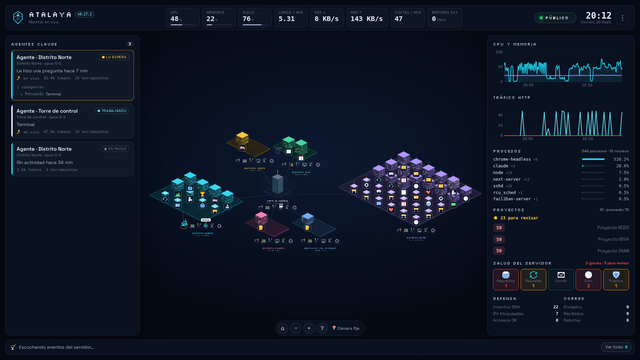
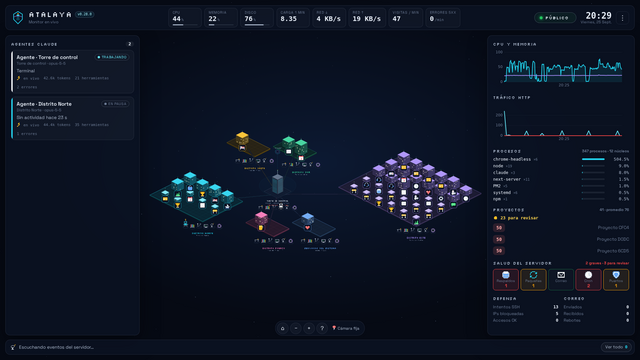
Kit al dia con Atalaya 0.29.0

diff --git a/web/js/drawer.js b/web/js/drawer.js
@@ -525,18 +525,18 @@ export class Drawer {
 
   renderSystem(d) {
     const s = d.system;
-    this.setHead('system', iconCanvas('terminal', 4), 'Torre de control', d.host ? esc(d.host) : 'El servidor completo', '');
+    this.setHead('system', iconCanvas('terminal', 4), 'Torre de control', d.host ? esc(d.host) : 'El servidor completo', d.health ? this.healthPill(d.health) : '');
     this.frame([{ title: 'CPU y memoria · 10 min', range: [0, 100], fmt: v => v + '%',
       series: [{ stroke: '#22d3ee', width: 2, fill: 'rgba(34,211,238,.1)', points: { show: false } }, { stroke: '#a78bfa', width: 2, points: { show: false } }] }]);
     this.setChart(0, d.hist, [r => r.cpu, r => r.mem]);
     const top = d.top.map(p => `<li><span class="mono grow">${esc(p.comm)} <span class="dmuted">×${p.n}</span></span><span class="mono">${p.cpu.toFixed(1)}%</span><span class="mono dmuted">${fmtBytes(p.mem)}</span></li>`).join('');
-    this.content(`<div class="dstats">
+    const health = d.health ? `<section class="dsec hsec"><h4>${px('shield')} Salud del servidor ${this.healthPill(d.health)}</h4>${this.healthHtml(d.health, true)}</section>` : '';
+    this.content(`${health}<div class="dstats">
         ${stat('CPU', s.cpu.toFixed(0) + '%')}${stat('Núcleos', s.cores)}${stat('Carga 1/5/15', s.load.map(x => x.toFixed(2)).join(' · '))}
         ${stat('Memoria', `${fmtBytes(s.mem.used)} / ${fmtBytes(s.mem.total)}`)}${stat('Swap', fmtBytes(s.swap.used))}${stat('Disco', s.disk ? `${fmtBytes(s.disk.used)} / ${fmtBytes(s.disk.total)}` : '–', s.disk?.pct > 85 ? 'warn' : '')}
         ${stat('Red ↓ / ↑', `${fmtBytes(s.net.rx)}/s · ${fmtBytes(s.net.tx)}/s`)}${stat('Encendido hace', dur(s.uptime))}${stat('Procesos', s.procs)}
         ${stat('Servicios', `${d.apps}${d.appsDown ? ` (${d.appsDown} con problemas)` : ''}`, d.appsDown ? 'bad' : '')}${stat('Agentes Claude', d.sessions)}
       </div>
-      <section class="dsec"><div class="row dmrow"><span class="grow">${px('shield')} <b>Salud del servidor</b>: respaldos, actualizaciones, cola de correo, cron y puertos.</span><button class="btn small" data-go="audit:all">Ver revisiones</button></div></section>
       ${d.connectors && d.connectors.length ? `<section class="dsec"><h4>Conectores de nube</h4><ul class="dlist">${d.connectors.map(c => `<li>
         <span class="pill ${c.ok ? 'ok' : 'bad'}">${c.ok ? 'conectado' : 'error'}</span><span class="grow"><b>${esc(c.label)}</b> · ${c.projects} proyecto${c.projects === 1 ? '' : 's'}${c.error ? `<br><span class="dmuted">${esc(c.error)}</span>` : ''}</span>
         <span class="dmuted">${c.lastOk ? 'leído hace ' + ago(Date.now() - c.lastOk) : 'sin lectura'}${c.type === 'vercel' ? (c.drainAt ? ` · visitas hace ${ago(Date.now() - c.drainAt)}` : ' · sin Drain') : ''}</span></li>`).join('')}</ul></section>` : ''}
@@ -567,28 +567,36 @@ export class Drawer {
       <section class="dsec"><h4>Últimos movimientos</h4><ul class="dlist">${rec}</ul></section>`);
   }
 
-  // salud del servidor: una seccion por revision, con sus cifras y cada hallazgo con su "como arreglarlo"
-  renderAudit(d) {
-    const cv = document.createElement('div'); cv.className = 'dswatch'; cv.innerHTML = px('shield', 'big');
-    const all = d.sections.flatMap(s => s.findings);
-    const bad = all.filter(f => f.sev === 'bad').length, warn = all.filter(f => f.sev === 'warn').length;
-    this.setHead('audit:all', cv, 'Salud del servidor', `Revisado hace ${ago(Date.now() - d.t)} · solo lectura`,
-      `<span class="pill ${bad ? 'bad' : warn ? 'warn' : 'ok'}">${bad ? bad + ' grave' + (bad === 1 ? '' : 's') : warn ? warn + ' para revisar' : 'en orden'}</span>`);
+  // salud del servidor: una seccion por revision, con sus cifras y cada hallazgo con su "como arreglarlo".
+  // compact (en la Torre de control): lo que esta en orden va en una sola linea
+  healthHtml(h, compact) {
+    if (!h) return '';
     const ST = { ok: ['ok', 'En orden'], warn: ['warn', 'Para revisar'], bad: ['bad', 'Grave'], unknown: ['off', 'Sin revisar'] };
-    const sec = s => {
-      const st = ST[s.status] || ST.unknown;
-      const finds = d.priv ? s.findings.map(f => `<div class="afind ${f.sev}"><h5>${esc(f.title)}</h5><p>${esc(f.detail || '')}</p>${f.fix ? `<p class="fix">${esc(f.fix)}</p>` : ''}
+    const sec = x => {
+      const st = ST[x.status] || ST.unknown;
+      const btn = x.canCheck ? `<button class="btn small" data-audit-updates="1" ${h.running ? 'disabled' : ''}>${h.running ? 'Revisando…' : 'Revisar actualizaciones'}</button>` : '';
+      if (compact && x.status === 'ok') return `<div class="hline">${px(x.icon)} <b>${esc(x.title)}</b> <span class="pill ok">En orden</span> <span class="dmuted">${x.items.map(i => `${esc(i.label)}: ${esc(i.value)}`).join(' · ')}</span></div>`;
+      const finds = h.priv ? x.findings.map(f => `<div class="afind ${f.sev}"><h5>${esc(f.title)}</h5><p>${esc(f.detail || '')}</p>${f.fix ? `<p class="fix">${esc(f.fix)}</p>` : ''}
           ${f.rows && f.rows.length ? `<ul>${f.rows.map(r => `<li>${r.port ? `puerto <b>${r.port}</b> ${esc(r.proc || '')}` : `<b>${esc(r.user || '')}</b> <span class="dmuted">${esc(r.schedule || '')}</span> <code>${esc(r.command || '')}</code>`}</li>`).join('')}</ul>` : ''}
           ${f.names && f.names.length ? `<p class="dmuted">${esc(f.names.slice(0, 20).join(', '))}${f.names.length > 20 ? '…' : ''}</p>` : ''}</div>`).join('')
-        : (s.findings.length ? `<p class="dmuted">${s.findings.length} hallazgo${s.findings.length === 1 ? '' : 's'}. Active el modo privado para verlos con su «cómo arreglarlo».</p>` : '');
-      const btn = s.canCheck ? `<button class="btn small" data-audit-updates="1" ${d.running ? 'disabled' : ''}>${d.running ? 'Revisando…' : 'Revisar actualizaciones'}</button>` : '';
-      return `<section class="dsec"><h4>${px(s.icon)} ${esc(s.title)} <span class="pill ${st[0]}">${st[1]}</span></h4>
-        <div class="dstats">${s.items.map(i => stat(i.label, `${esc(i.value)}${i.sub ? `<br><small class="dmuted">${esc(i.sub)}</small>` : ''}`)).join('')}</div>
-        ${finds || (s.status === 'ok' ? '<p class="dmuted">Nada para revisar.</p>' : '')}${btn ? `<div class="row dmrow">${btn}</div>` : ''}</section>`;
+        : (x.findings.length ? `<p class="dmuted">${x.findings.length} hallazgo${x.findings.length === 1 ? '' : 's'}. Active el modo privado para verlos con su «cómo arreglarlo».</p>` : '');
+      return `<section class="dsec"><h4>${px(x.icon)} ${esc(x.title)} <span class="pill ${st[0]}">${st[1]}</span></h4>
+        <div class="dstats">${x.items.map(i => stat(i.label, `${esc(i.value)}${i.sub ? `<br><small class="dmuted">${esc(i.sub)}</small>` : ''}`)).join('')}</div>
+        ${finds || (x.status === 'ok' ? '<p class="dmuted">Nada para revisar.</p>' : '')}${btn ? `<div class="row dmrow">${btn}</div>` : ''}</section>`;
     };
-    // primero lo grave
-    const order = d.sections.slice().sort((a, b) => ({ bad: 0, warn: 1, unknown: 2, ok: 3 }[a.status] - { bad: 0, warn: 1, unknown: 2, ok: 3 }[b.status]));
-    this.content(order.map(sec).join('') + '<p class="hint">Atalaya solo mira: no cambia nada. Estas revisiones se repiten cada 15 minutos; las actualizaciones, solo cuando usted lo pide.</p>');
+    const rank = { bad: 0, warn: 1, unknown: 2, ok: 3 };
+    const order = h.sections.slice().sort((a, b) => rank[a.status] - rank[b.status]);
+    return order.map(sec).join('') + '<p class="hint">Atalaya solo mira: no cambia nada. Estas revisiones se repiten cada 15 minutos; las actualizaciones, solo cuando usted lo pide.</p>';
+  }
+  healthPill(h) {
+    const all = h ? h.sections.flatMap(x => x.findings) : [];
+    const bad = all.filter(f => f.sev === 'bad').length, warn = all.filter(f => f.sev === 'warn').length;
+    return `<span class="pill ${bad ? 'bad' : warn ? 'warn' : 'ok'}">${bad ? bad + ' grave' + (bad === 1 ? '' : 's') : warn ? warn + ' para revisar' : 'en orden'}</span>`;
+  }
+  renderAudit(d) {
+    const cv = document.createElement('div'); cv.className = 'dswatch'; cv.innerHTML = px('shield', 'big');
+    this.setHead('audit:all', cv, 'Salud del servidor', `Revisado hace ${ago(Date.now() - d.t)} · solo lectura`, this.healthPill(d));
+    this.content(this.healthHtml(d, false));
   }
 
   renderProjects(d) {

diff --git a/web/themes/raid/world.js b/web/themes/raid/world.js
@@ -11,6 +11,7 @@
 import { Application, Container, Graphics, Sprite, Text, Texture, Rectangle } from '/vendor/pixi.csp.mjs';
 import { esc, fmtBytes } from '/js/hud.js';
 import { accountCaption } from '/js/accounts.js';
+import { healthLine } from '/js/layout.js';
 
 const U = 16;
 const FONT = "'Jersey 10', ui-monospace, monospace";
@@ -177,6 +178,9 @@ export default class RaidWorld {
     gd.on('pointertap', () => { if (!this.dragMoved) this.pick('system', 'root'); });
     this.tipOn(gd, () => ({ title: 'El Guardián', body: 'El <b>servidor</b>: protege a la banda y absorbe los ataques del Intruso.', meta: this.state?.system ? `CPU ${this.state.system.cpu.toFixed(0)}% · RAM ${this.state.system.mem.pct.toFixed(0)}% · carga ${this.state.system.load[0].toFixed(2)}` : '', hint: 'Clic para ver el servidor completo' }));
     this.scene.addChild(gd); this.guard = { s: gd, x: 0, y: 150 - 30 };
+    // nombre y salud del servidor, bajo el guardian
+    this.guardName = this.label('El Guardián', 20, '#e8c55a');
+    this.guardHealth = this.label('', 16, '#3fcf4a');
     // grupos
     groups.forEach((g, gi) => {
       const lbl = this.label(`Grupo ${gi + 1} · ${g.a.label}`, 24, '#e8c55a');
@@ -221,6 +225,8 @@ export default class RaidWorld {
   update(state) {
     this.state = state;
     this.layout(state);
+    const hl = healthLine(state);
+    if (hl && this.guardHealth && this.guardHealth.text !== hl.text) { this.guardHealth.text = hl.text; this.guardHealth.style.fill = hl.color; }
     for (const x of [...state.apps, ...(state.sites || [])]) {
       const h = this.heroes.get(x.id);
       if (!h) continue;
@@ -417,6 +423,8 @@ export default class RaidWorld {
     if (this.bossName) { const p = toS({ x: 0, y: this.arena.y0 + 132 }); this.bossName.x = p.x; this.bossName.y = p.y + 24; }
     // en pantallas chicas los textos se achican con el area del mundo (no se enciman)
     const ts = clamp(Math.min((W - this.insets.left - this.insets.right) / 900, (H - this.insets.top - this.insets.bottom) / 560), 0.5, 1);
+    // encima del guardian (debajo va la fila de grupos)
+    if (this.guardName) { const p = toS({ x: 0, y: 150 - 60 }); this.guardName.x = this.guardHealth.x = p.x; this.guardHealth.y = p.y - 4 * ts; this.guardName.y = p.y - 26 * ts; this.guardName.scale.set(ts); this.guardHealth.scale.set(ts); }
     if (this.bossName) this.bossName.scale.set(ts);
     for (const gr of this.groups.values()) { const p = toS(gr.labelPos); gr.label.scale.set(ts); gr.sub.scale.set(ts); gr.label.x = p.x; gr.label.y = p.y; gr.sub.x = p.x + gr.label.width + 14 * ts; gr.sub.y = p.y - 2 * ts; }
     for (const p of this.players.values()) if (p.castPos) { const q = toS(p.castPos); p.castT.x = q.x; p.castT.y = q.y; p.castT.visible = this.cam.s > 1.2; }

diff --git a/web/themes/castillo/world.js b/web/themes/castillo/world.js
@@ -15,7 +15,7 @@
 // ventanas) cuenta lo que pasa.
 import { Application, Container, Graphics, Sprite, Text, Texture } from '/vendor/pixi.csp.mjs';
 import { signTexture, signCanvas } from '/js/sprites.js';
-import { groupsOf, layoutKeyOf, packRows, iconURL, plaqueList } from '/js/layout.js';
+import { groupsOf, layoutKeyOf, packRows, iconURL, plaqueList, healthLine } from '/js/layout.js';
 import { esc, fmtBytes } from '/js/hud.js';
 import { accountCaption } from '/js/accounts.js';
 
@@ -244,7 +244,8 @@ export default class CastilloWorld {
     const t = text('TORRE DEL RELOJ', 18, 0xe8dcb8, FONT_T); t.anchor.set(0.5, 1); t.x = this.clock.x; t.y = top - 160;
     this.towerSub = text('', 12, 0xb8a8c8); this.towerSub.anchor.set(0.5, 0); this.towerSub.x = this.clock.x; this.towerSub.y = this.groundY + 90;
     this.towerTitle = t;
-    this.tags.addChild(t, this.towerSub);
+    this.towerHealth = text('', 14, 0x4ade80, FONT, '700'); this.towerHealth.anchor.set(0.5, 0); this.towerHealth.x = this.clock.x; this.towerHealth.y = this.groundY + 110;
+    this.tags.addChild(t, this.towerSub, this.towerHealth);
     this.towerTop = { x: this.clock.x, y: top - 100 };
   }
 
@@ -352,6 +353,8 @@ export default class CastilloWorld {
     replate.forEach(R => this.fillPlaque(R));
     const s = state.system;
     if (s && this.towerSub) this.towerSub.text = `CPU ${s.cpu.toFixed(0)}% · memoria ${s.mem.pct.toFixed(0)}% · disco ${Math.round(s.disk?.pct ?? 0)}%`;
+    const hl = healthLine(state);
+    if (hl && this.towerHealth && this.towerHealth.text !== hl.text) { this.towerHealth.text = hl.text; this.towerHealth.style.fill = hl.color; }
     this.failed = (state.keys || []).filter(k => k.state === 'failed').map(k => k.label);
     this.syncHunters(state.sessions || []);
   }
@@ -628,6 +631,7 @@ export default class CastilloWorld {
       this.towerTitle.text = bad ? 'ALERTA: ' + this.failed.join(', ') : 'TORRE DEL RELOJ';
       this.towerTitle.style.fill = bad ? 0xff5a5a : 0xe8dcb8;
       this.towerTitle.scale.set(this.textScale); this.towerSub.scale.set(this.textScale);
+      if (this.towerHealth) { this.towerHealth.scale.set(this.textScale); this.towerHealth.y = this.towerSub.y + this.towerSub.height + 4; }
     }
     // sala enfocada (para mostrar los nombres)
     const zoomed = this.overview && s > this.overview.s * 1.45;

diff --git a/web/themes/villa/world.js b/web/themes/villa/world.js
@@ -10,6 +10,7 @@ import { Application, Container, Graphics, Sprite, Text, Texture, TilingSprite, 
 import { signTexture } from '/js/sprites.js';
 import { esc, fmtBytes } from '/js/hud.js';
 import { accountCaption } from '/js/accounts.js';
+import { healthLine } from '/js/layout.js';
 
 const U = 16; // una casilla = 16 pixeles de arte
 const FONT_T = "'Jacquard 24', 'Pixelify Sans', serif";
@@ -239,6 +240,7 @@ export default class VillaWorld {
     this.scene.addChild(cs);
     this.castle = { gate: { x: 0, y: 4 * U }, cx: 0, cy: -U };
     this.castleLabel = this.label('Castillo', true);
+    this.castleHealth = this.subLabel(''); // salud del servidor, bajo el nombre del castillo
 
     // caminos: busqueda sobre la cuadricula desde el porton del castillo hasta cada puerta, esquivando murallas
     // y prefiriendo caminos ya trazados (asi se juntan como en un mapa de verdad)
@@ -378,6 +380,8 @@ export default class VillaWorld {
   update(state) {
     this.state = state;
     this.layout(state);
+    const hl = healthLine(state);
+    if (hl && this.castleHealth && this.castleHealth.text !== hl.text) { this.castleHealth.text = hl.text; this.castleHealth.style.fill = hl.color; }
     for (const x of [...state.apps, ...(state.sites || [])]) {
       const h = this.houses.get(x.id);
       if (!h) continue;
@@ -601,6 +605,7 @@ export default class VillaWorld {
     // en pantallas chicas los textos se achican con el area del mundo (no se enciman)
     const ts = clamp(Math.min((W - this.insets.left - this.insets.right) / 900, (H - this.insets.top - this.insets.bottom) / 560), 0.5, 1);
     if (this.castleLabel) this.castleLabel.scale.set(ts);
+    if (this.castleHealth && this.castleLabel) { this.castleHealth.scale.set(ts); this.castleHealth.x = this.castleLabel.x; this.castleHealth.y = this.castleLabel.y + 22 * ts; }
     for (const v of this.villages.values()) { const p = toScreen(v.labelPos); v.label.scale.set(ts); v.sub.scale.set(ts); v.label.x = p.x; v.label.y = p.y - 20 * ts; v.sub.x = p.x; v.sub.y = p.y; }
     for (const f of this.fx) if (f.world) { const p = toScreen(f.world); f.obj.x = p.x; f.obj.y = p.y; }
     if (this.manualUntil && this.manualUntil < this.t) { this.manualUntil = 0; this.camTarget = this.overview; this.navChanged(); }

diff --git a/web/themes/planta/world.js b/web/themes/planta/world.js
@@ -14,6 +14,7 @@ import { Stage3D, THREE, color, clamp, billboard, groupsOf, layoutKeyOf, packRow
 import { signCanvas, robotCanvas } from '/js/sprites.js';
 import { esc, fmtBytes } from '/js/hud.js';
 import { accountCaption } from '/js/accounts.js';
+import { healthLine } from '/js/layout.js';
 
 // PICO-8
 const K = { black: '#000000', navy: '#1d2b53', plum: '#7e2553', green: '#008751', brown: '#ab5236', dgray: '#5f574f', lgray: '#c2c3c7', white: '#fff1e8', red: '#ff004d', orange: '#ffa300', yellow: '#ffec27', lime: '#00e436', blue: '#29adff', lav: '#83769c', pink: '#ff77a8', peach: '#ffccaa' };
@@ -129,7 +130,7 @@ export default class Planta3D extends Stage3D {
     [base, roof, chimney].forEach(m => { m.userData = { kind: 'system', id: 'root' }; this.pickables.push(m); });
     this.plant.add(g);
     this.central = { g, x, z, mem, disk, gun, chimneyTop: new THREE.Vector3(x - 2, 5.3, z - 0.8), gunPos: new THREE.Vector3(x + 0.3, 3, z + 0.6), bin: new THREE.Vector3(x - 1.6, 0.9, z + 2.8), fence: { x: x + 0.4, z: z + 0.6 } };
-    this.centralLabel = this.label('w3-plaque w3-central', '<b>Central · servidor</b><small></small>', new THREE.Vector3(x, 0.05, z + 4.2));
+    this.centralLabel = this.label('w3-plaque w3-central', '<b>Central · servidor</b><small></small><i class="hl"></i>', new THREE.Vector3(x, 0.05, z + 4.2));
     this.centralLabel.d.dataset.go = 'system:root';
   }
 
@@ -229,6 +230,9 @@ export default class Planta3D extends Stage3D {
       this.centralLabel.d.querySelector('small').textContent = `CPU ${s.cpu.toFixed(0)}% · memoria ${s.mem.pct.toFixed(0)}% · disco ${Math.round(s.disk?.pct ?? 0)}%`;
     }
     this.failed = (state.keys || []).some(k => k.state === 'failed');
+    // salud del servidor junto a su nombre
+    const hl = healthLine(state), he = this.centralLabel && this.centralLabel.d.querySelector('.hl');
+    if (he && hl) { he.textContent = hl.text; he.style.color = hl.color; }
     this.syncBots(state.sessions || []);
   }
 

diff --git a/web/themes/ciudad3d/world.js b/web/themes/ciudad3d/world.js
@@ -10,6 +10,7 @@ import { Stage3D, THREE, color, clamp, billboard, rowsCanvas } from '/js/stage3d
 import { signCanvas, robotCanvas, INVADER, ENVELOPE } from '/js/sprites.js';
 import { esc, fmtBytes } from '/js/hud.js';
 import { accountCaption } from '/js/accounts.js';
+import { healthLine } from '/js/layout.js';
 
 const GAP = 2.1; // distancia entre edificios
 const shade = (hex, f) => color(hex).lerp(color(f < 0 ? '#000000' : '#ffffff'), Math.abs(f));
@@ -79,7 +80,7 @@ export default class Ciudad3D extends Stage3D {
     this.pickables.push(tower, deck, pad);
     [tower, deck, pad].forEach(m => { m.userData = { kind: 'system', id: 'root' }; });
     this.hq = { g, tower, bands, beacon, shield, flash: 0 };
-    this.hqLabel = this.label('w3-group', '<b>TORRE DE CONTROL</b><small></small>', new THREE.Vector3(0, 13.8, 0));
+    this.hqLabel = this.label('w3-group', '<b>TORRE DE CONTROL</b><small></small><i class="hl"></i>', new THREE.Vector3(0, 13.8, 0));
     // portal "Internet"
     this.gatePos = new THREE.Vector3(-20, 4, 22); // detras de la ciudad vista desde la camara inicial
     const gate = new THREE.Mesh(new THREE.TorusGeometry(2.2, 0.18, 12, 48), new THREE.MeshBasicMaterial({ color: color(this.C.accent) }));
@@ -204,6 +205,9 @@ export default class Ciudad3D extends Stage3D {
     this.failed = (state.keys || []).filter(k => k.state === 'failed').map(k => k.label);
     this.hq.cpu = state.system ? state.system.cpu : 0;
     this.hqLabel.d.querySelector('small').textContent = (state.keys || []).filter(k => k.state === 'active').map(k => k.label).filter(l => !['SSH', 'Cron'].includes(l)).slice(0, 4).join(' · ');
+    // salud del servidor junto a su nombre
+    const hl = healthLine(state), he = this.hqLabel && this.hqLabel.d.querySelector('.hl');
+    if (he && hl) { he.textContent = hl.text; he.style.color = hl.color; }
     this.syncRobots(state.sessions || []);
   }
 

diff --git a/web/themes/ops/world.js b/web/themes/ops/world.js
@@ -15,6 +15,7 @@ import { Stage3D, THREE, color, clamp, billboard, groupsOf, layoutKeyOf, iconURL
 import { signCanvas } from '/js/sprites.js';
 import { esc, fmtBytes } from '/js/hud.js';
 import { accountCaption } from '/js/accounts.js';
+import { healthLine } from '/js/layout.js';
 
 const R = 10;
 const TAU = Math.PI * 2;
@@ -65,7 +66,7 @@ export default class Ops3D extends Stage3D {
     const dome = new THREE.Mesh(new THREE.SphereGeometry(1.9, 24, 12, 0, TAU, 0, Math.PI / 2), new THREE.MeshBasicMaterial({ color: color(this.C.ok), wireframe: true, transparent: true, opacity: 0.18 }));
     S.add(core, dome);
     this.base = { core, dome, flash: 0 };
-    this.baseLabel = this.label('w3-group ops-base', '<b>BASE</b><small></small>', new THREE.Vector3(0, -0.2, 2.4));
+    this.baseLabel = this.label('w3-group ops-base', '<b>BASE</b><small></small><i class="hl"></i>', new THREE.Vector3(0, -0.2, 2.4));
     this.baseLabel.d.dataset.go = 'system:root';
     this.baseLabel.d.style.translate = '-50% 0';
     // barrido
@@ -171,6 +172,9 @@ export default class Ops3D extends Stage3D {
     recard.forEach(s => this.fillCard(s));
     this.failed = (state.keys || []).filter(k => k.state === 'failed').map(k => k.label);
     this.baseLabel.d.querySelector('small').textContent = (state.keys || []).filter(k => k.state === 'active').map(k => k.label).filter(l => !['SSH', 'Cron'].includes(l)).slice(0, 4).join(' · ');
+    // salud del servidor junto a su nombre
+    const hl = healthLine(state), he = this.baseLabel && this.baseLabel.d.querySelector('.hl');
+    if (he && hl) { he.textContent = hl.text; he.style.color = hl.color; }
     this.syncDrones(state.sessions || []);
   }
 

diff --git a/web/themes/oficina/world.js b/web/themes/oficina/world.js
@@ -15,7 +15,7 @@
 // Regla de oro: pixel art nitido para los muebles y la gente; los textos, siempre nitidos.
 import { Application, Container, Graphics, Sprite, Text, Texture, Rectangle } from '/vendor/pixi.csp.mjs';
 import { signCanvas } from '/js/sprites.js';
-import { groupsOf, layoutKeyOf, packRows, iconURL, plaqueList } from '/js/layout.js';
+import { groupsOf, layoutKeyOf, packRows, iconURL, plaqueList, healthLine } from '/js/layout.js';
 import { esc, fmtBytes } from '/js/hud.js';
 import { accountCaption } from '/js/accounts.js';
 
@@ -339,6 +339,8 @@ export default class OficinaWorld {
       }
       this.place(room, coolerTex(), 3, 2.6, 16, 36);
       room.label = this.roomLabel(room, 'Sala de servidores', '', '#4f9dff');
+      // salud del servidor, bajo el titulo de la sala
+      this.srvHealth = text('', 13, 0x4ade80, '700'); this.srvHealth.anchor.set(0.5, 1); this.srvHealth.y = -16 - 28; room.label.addChild(this.srvHealth);
       this.tappable(base, () => this.pick('system', 'root'), () => this.tipFor({ kind: 'system' }));
       this.srv = room;
     } else {
@@ -440,6 +442,8 @@ export default class OficinaWorld {
     replate.forEach(r => this.fillPlaque(r));
     const s = state.system;
     if (s && this.srv) this.srv.label.children[2].text = `CPU ${s.cpu.toFixed(0)}% · memoria ${s.mem.pct.toFixed(0)}% · disco ${Math.round(s.disk?.pct ?? 0)}%`;
+    const hl = healthLine(state);
+    if (hl && this.srvHealth && this.srvHealth.text !== hl.text) { this.srvHealth.text = hl.text; this.srvHealth.style.fill = hl.color; }
     this.failed = (state.keys || []).some(k => k.state === 'failed');
     this.syncMates(state.sessions || []);
   }

diff --git a/web/themes/acuario/world.js b/web/themes/acuario/world.js
@@ -12,6 +12,7 @@
 import { Stage3D, THREE, color, clamp } from '/js/stage3d.js';
 import { esc, fmtBytes } from '/js/hud.js';
 import { accountCaption } from '/js/accounts.js';
+import { healthLine } from '/js/layout.js';
 
 const FISH_COLORS = ['#ff8a3d', '#ffd23f', '#ff5e8a', '#7be0ff', '#b48cff', '#7be06b', '#ff4d5e', '#f4f1e8', '#3ddbd9', '#ffb3c7'];
 function hash(s) { let h = 2166136261; for (const c of String(s)) { h ^= c.charCodeAt(0); h = Math.imul(h, 16777619); } return h >>> 0; }
@@ -124,7 +125,7 @@ export default class Acuario3D extends Stage3D {
     this.rack.add(g);
     this.pickables.push(body, cap);
     this.filter = { g, water, led, x, y, w };
-    this.filterLabel = this.label('w3-plaque w3-filter', '<b>Servidor</b><small></small>', new THREE.Vector3(x, y - 0.3, TD / 2));
+    this.filterLabel = this.label('w3-plaque w3-filter', '<b>Servidor</b><small></small><i class="hl"></i>', new THREE.Vector3(x, y - 0.3, TD / 2));
     this.filterLabel.d.dataset.go = 'system:root';
   }
 
@@ -241,6 +242,9 @@ export default class Acuario3D extends Stage3D {
       this.filter.led.material.color.set(bad ? this.C.warn : this.C.ok);
       this.filterLabel.d.querySelector('small').textContent = `disco ${Math.round(s.disk?.pct ?? 0)}% · carga ${s.load[0].toFixed(1)}`;
     }
+    // salud del servidor junto a su nombre
+    const hl = healthLine(state), he = this.filterLabel && this.filterLabel.d.querySelector('.hl');
+    if (he && hl) { he.textContent = hl.text; he.style.color = hl.color; }
     this.syncDivers(state.sessions || []);
   }
 

diff --git a/web/js/world.js b/web/js/world.js
@@ -5,6 +5,7 @@ import { robotTextures, monoTextures, iconTexture, signTexture, INVADER, ENVELOP
 import { STATION_TIPS } from './tips.js';
 import { esc, fmtBytes } from './hud.js';
 import { accountCaption } from './accounts.js';
+import { healthLine } from './layout.js';
 
 const TW = 64, TH = 32; // tile isometrico
 const iso = (gx, gy) => ({ x: (gx - gy) * TW / 2, y: (gx + gy) * TH / 2 });
@@ -312,7 +313,10 @@ export class World {
     name.y = TH * S + 26;
     this.hqTag = label('apache · mariadb · exim', 13, 0x6b7a93);
     this.hqTag.y = TH * S + 50;
-    hq.addChild(shield, plate, tower, radar, name, this.hqTag);
+    // salud del servidor bajo la torre (respaldos, actualizaciones, correo, cron, puertos)
+    this.hqHealth = label('', 14, 0x4ade80, UI_FONT);
+    this.hqHealth.y = TH * S + 72;
+    hq.addChild(shield, plate, tower, radar, name, this.hqTag, this.hqHealth);
     hq.zIndex = 0;
     this.hq = { c: hq, shield, radar, h, rx: 190, ry: 105, flash: 0, heat: 0 };
     this.scene.addChild(hq);
@@ -661,6 +665,8 @@ export class World {
     const act = (state.keys || []).filter(k => k.state === 'active').map(k => k.label.toLowerCase());
     const tag = act.filter(l => !['ssh', 'cron'].includes(l)).slice(0, 4).join(' · ') || 'servidor';
     if (this.hqTag.text !== tag) this.hqTag.text = tag;
+    const hl = healthLine(state);
+    if (hl && this.hqHealth.text !== hl.text) { this.hqHealth.text = hl.text; this.hqHealth.style.fill = hl.color; }
     this.syncRobots(state.sessions, state.accounts);
   }
 

diff --git a/web/themes/terminal/world.js b/web/themes/terminal/world.js
@@ -156,6 +156,13 @@ export default class TerminalWorld {
     L.push(row('MEMORIA', s.mem.pct / 100, `${lpad(s.mem.pct.toFixed(0), 3)}%  ${fmtBytes(s.mem.used)}`, s.mem.pct > 85));
     L.push(row('DISCO', (s.disk?.pct ?? 0) / 100, `${lpad(Math.round(s.disk?.pct ?? 0), 3)}%`, (s.disk?.pct ?? 0) > 85));
     L.push(row('CARGA', clamp(s.load[0] / Math.max(1, s.cores), 0, 1), `${s.load.map(x => x.toFixed(2)).join(' ')}`, s.load[0] > s.cores));
+    // salud del servidor: una linea por revision, como un chequeo de arranque
+    const H = state.health || [];
+    if (H.length) {
+      L.push('<div class="term-sep"></div>');
+      const TAG = { ok: '[  OK   ]', warn: '[ AVISO ]', bad: '[ GRAVE ]', unknown: '[   ?   ]' };
+      for (const h of H) L.push(`<div class="term-unit ${h.status === 'bad' ? 'down' : h.status === 'warn' ? 'warn' : ''}"><span>${TAG[h.status] || TAG.unknown}</span> ${esc(h.title)}${h.bad + h.warn ? ` <small>${h.bad + h.warn} hallazgo${h.bad + h.warn === 1 ? '' : 's'}</small>` : ''}</div>`);
+    }
     const keys = (state.keys || []).filter(k => k.state !== 'inactive');
     L.push('<div class="term-sep"></div>');
     for (const k of keys) L.push(`<div class="term-unit${k.state === 'failed' ? ' down' : ''}"><span>${k.state === 'failed' ? '[ FALLO ]' : '[  OK   ]'}</span> ${esc(k.label)}${k.unit ? ` <small>${esc(k.unit)}</small>` : ''}</div>`);

diff --git a/web/js/layout.js b/web/js/layout.js
@@ -37,3 +37,12 @@ export function plaqueList(items, iconOf, isDown = it => it.status === 'down') {
   const e = v => String(v).replace(/[&<>"]/g, c => ({ '&': '&amp;', '<': '&lt;', '>': '&gt;', '"': '&quot;' }[c]));
   return items.map(it => `<span data-go="${it._k === 'site' ? 'site' : 'app'}:${e(it.id)}"${isDown(it) ? ' class="down"' : ''}><img alt="" src="${iconOf(it)}"><em>${e(it.name)}</em></span>`).join('');
 }
+// salud del servidor en una linea, para ponerla junto al servidor del mundo (torre, castillo, base...)
+export function healthLine(state) {
+  const h = (state && state.health) || [];
+  if (!h.length) return null;
+  const bad = h.reduce((n, x) => n + x.bad, 0), warn = h.reduce((n, x) => n + x.warn, 0);
+  const sev = bad ? 'bad' : warn ? 'warn' : 'ok';
+  const text = bad ? `Salud: ${bad} grave${bad === 1 ? '' : 's'}${warn ? ` · ${warn} para revisar` : ''}` : warn ? `Salud: ${warn} para revisar` : 'Salud: en orden';
+  return { text, sev, color: { bad: '#ff5a4a', warn: '#f5b83d', ok: '#4ade80' }[sev] };
+}
